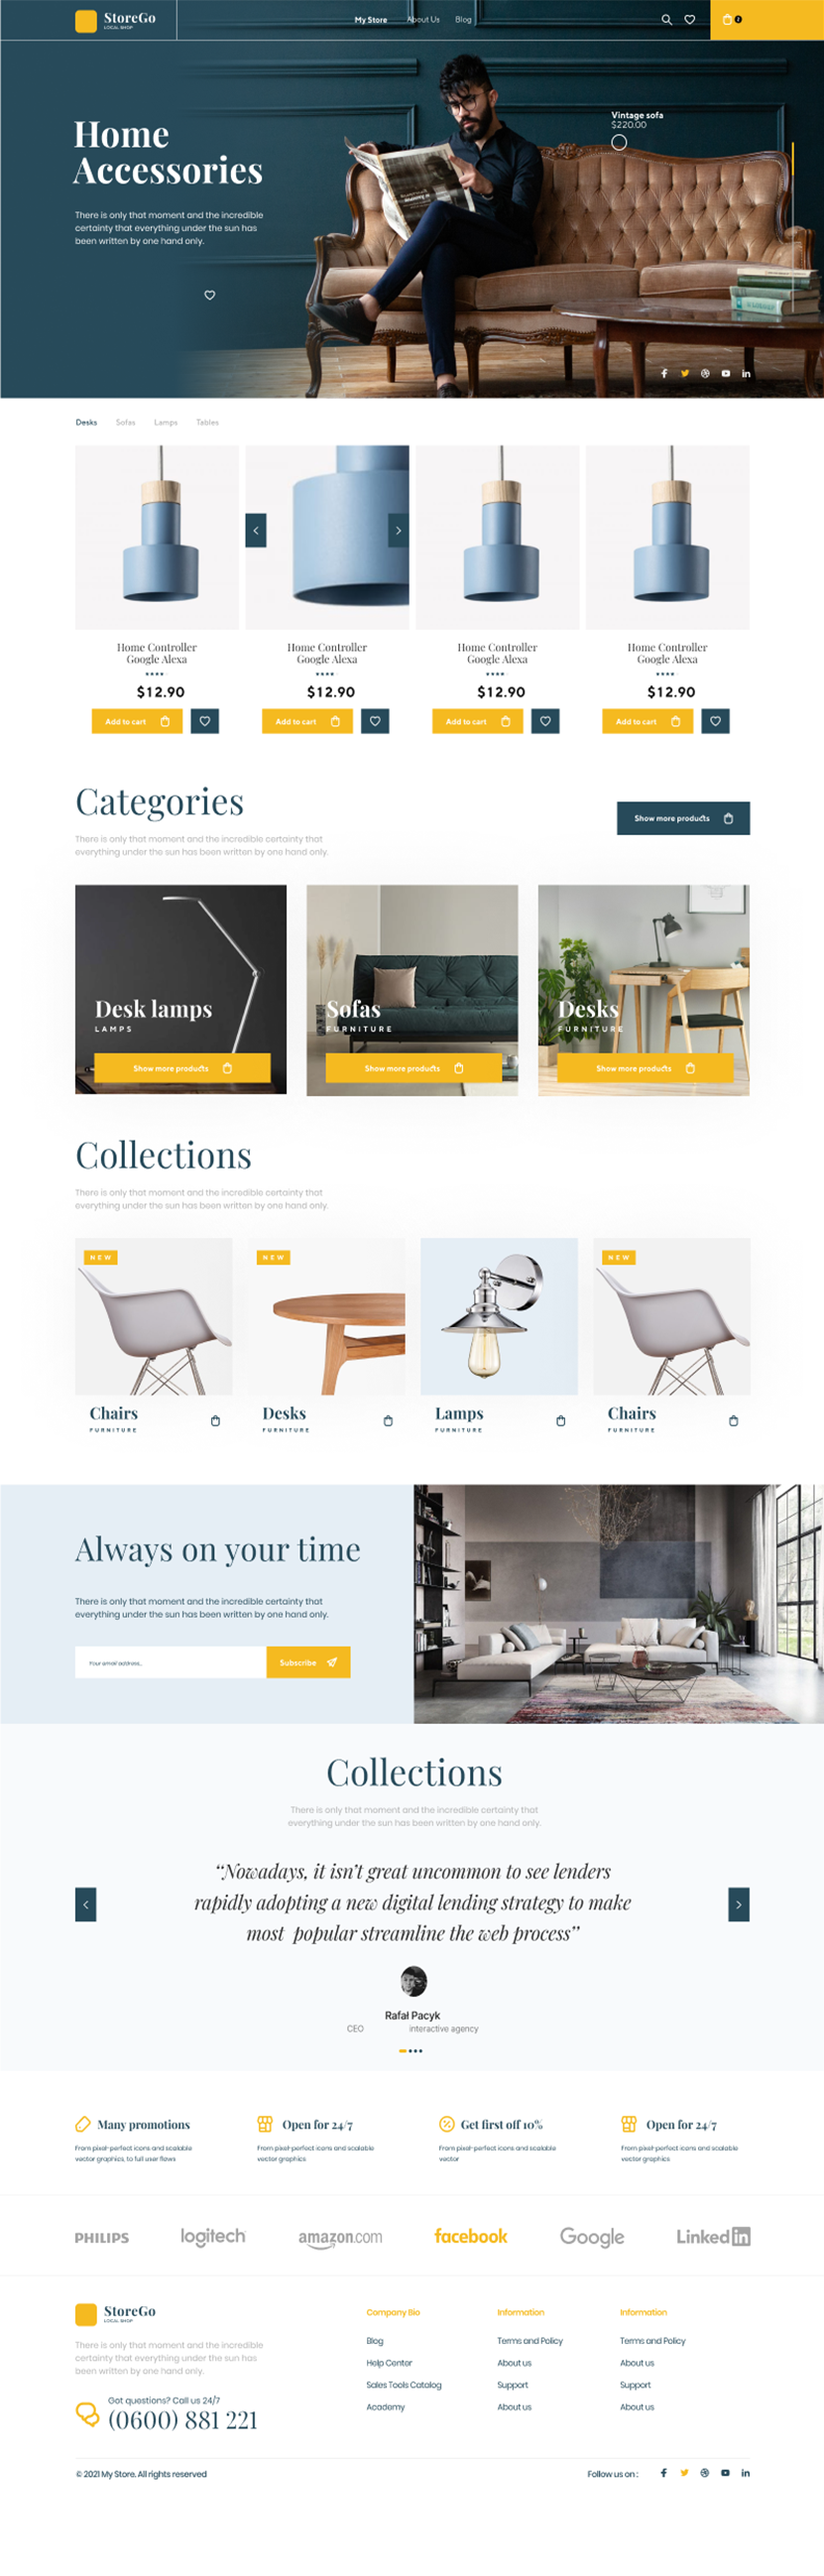
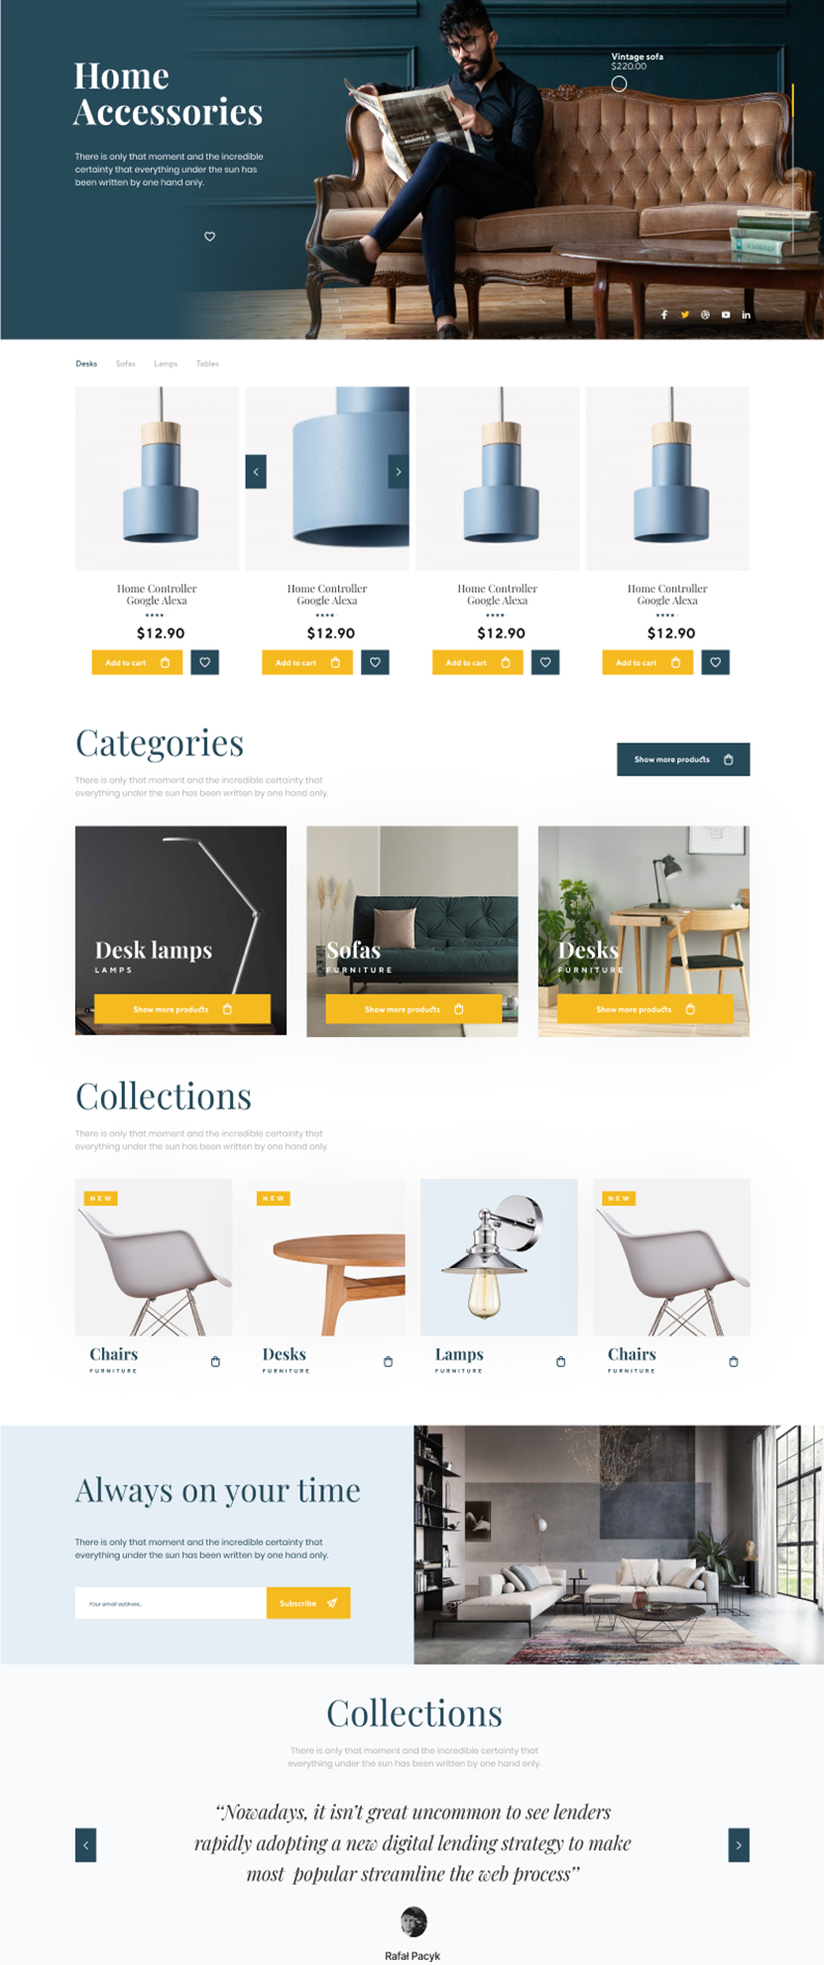
added images2 theme2

diff --git a/app/Models/Utility.php b/app/Models/Utility.php
@@ -642,23 +642,23 @@ class Utility extends Model
 
             'theme2' => [
                 'theme2-v1' => [
-                    'img_path' => asset(Storage::url('uploads/store_theme/theme2/Home.png')),
+                    'img_path' => asset(Storage::url('uploads/store_theme/theme2/Home2.png')),
                     'color' => 'f5ba20',
                 ],
                 'theme2-v2' => [
-                    'img_path' => asset(Storage::url('uploads/store_theme/theme2/Home-1.png')),
+                    'img_path' => asset(Storage::url('uploads/store_theme/theme2/Home-12.png')),
                     'color' => 'fa747d',
                 ],
                 'theme2-v3' => [
-                    'img_path' => asset(Storage::url('uploads/store_theme/theme2/Home-2.png')),
+                    'img_path' => asset(Storage::url('uploads/store_theme/theme2/Home-22.png')),
                     'color' => 'c8ae9d',
                 ],
                 'theme2-v4' => [
-                    'img_path' => asset(Storage::url('uploads/store_theme/theme2/Home-3.png')),
+                    'img_path' => asset(Storage::url('uploads/store_theme/theme2/Home-32.png')),
                     'color' => 'd7e2dc',
                 ],
                 'theme2-v5' => [
-                    'img_path' => asset(Storage::url('uploads/store_theme/theme2/Home-4.png')),
+                    'img_path' => asset(Storage::url('uploads/store_theme/theme2/Home-42.png')),
                     'color' => '5ea5ab',
                 ],
             ],
